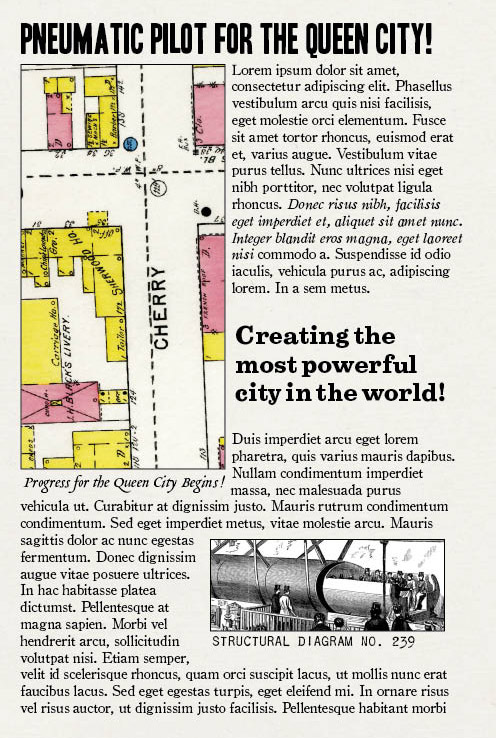
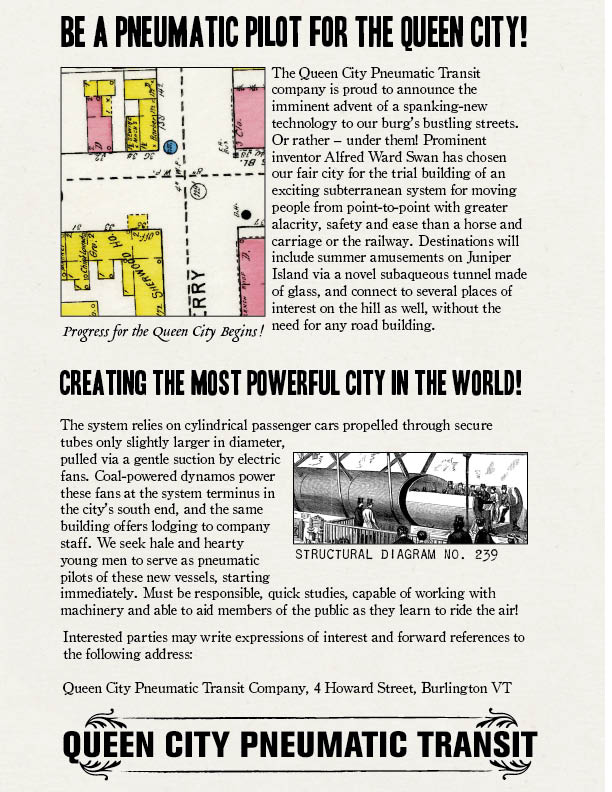
Update the ads and h3 font-style.

diff --git a/css/style.css b/css/style.css
@@ -108,7 +108,7 @@ article {
 h1 { font-family: 'HeadlineTwo-HPLHS', Georgia, Times, serif; font-size:2.0em; letter-spacing: 0.12em; line-height:1em; font-weight: normal; }
 h2 { font-family: 'HeadlineOne-HPLHS', Georgia, Times, serif; font-size:1.6em; letter-spacing: 0.10em; font-weight: normal; }
 h1,h2 { margin:0px 0px 10px; }
-h3 { font-family: "LyonsItalic", Georgia, Times, serif; font-size: 1.6em;}
+h3 { font-family: "LyonsItalic", Georgia, Times, serif; font-weight: normal; font-size: 1.6em;}
 h4 { font-family: 'OldStyle1-HPLHS', Helvetica, Arial, sans-serif; margin:0px; font-size:0.8em; }
 body { font-family: 'OldStyle1-HPLHS', Helvetica, Arial, sans-serif; margin:0px; }
 
